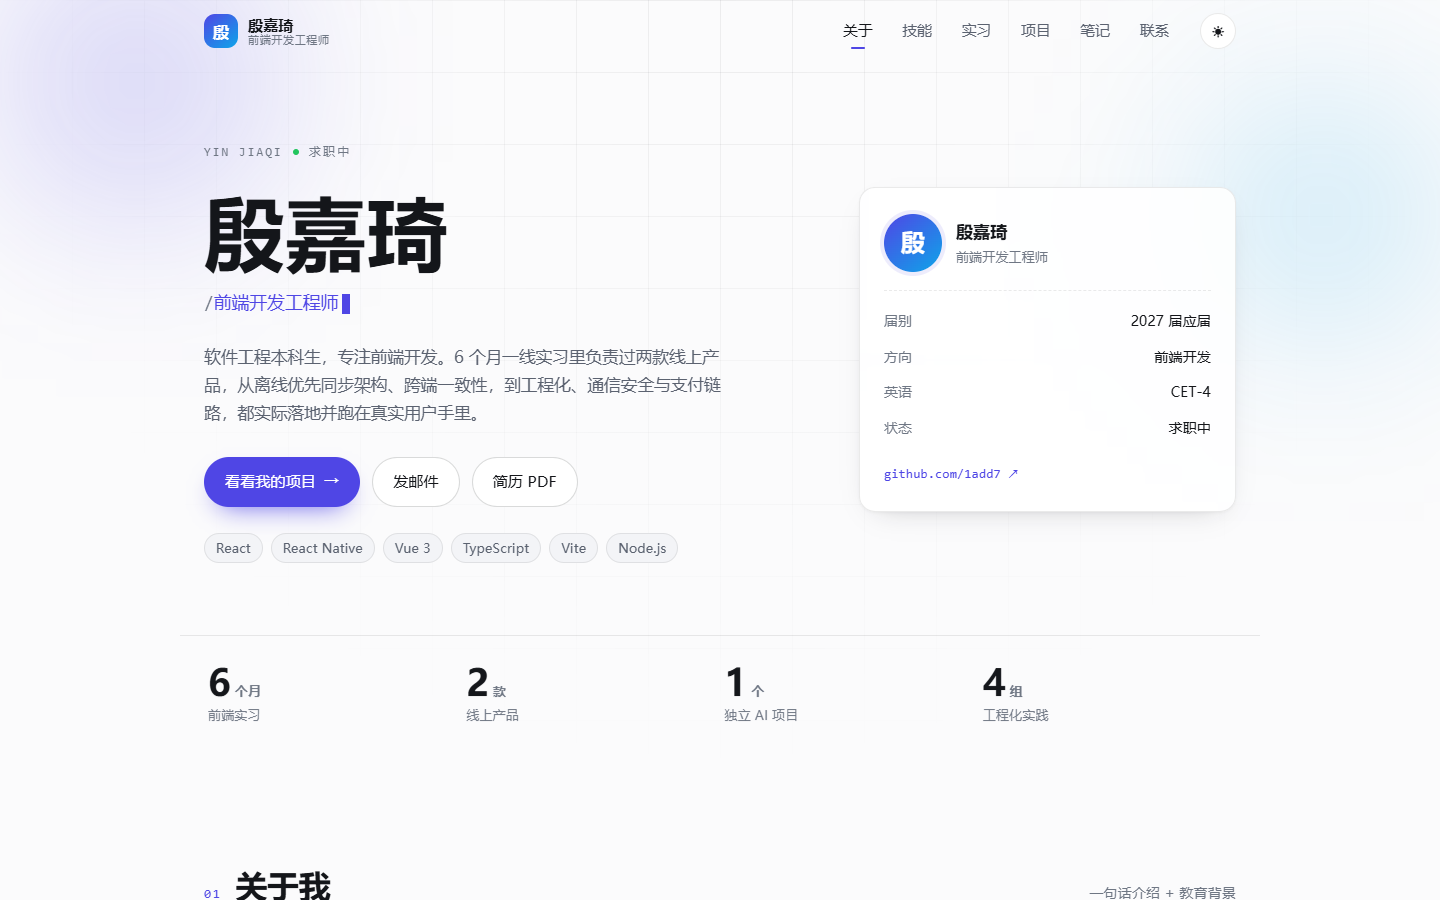
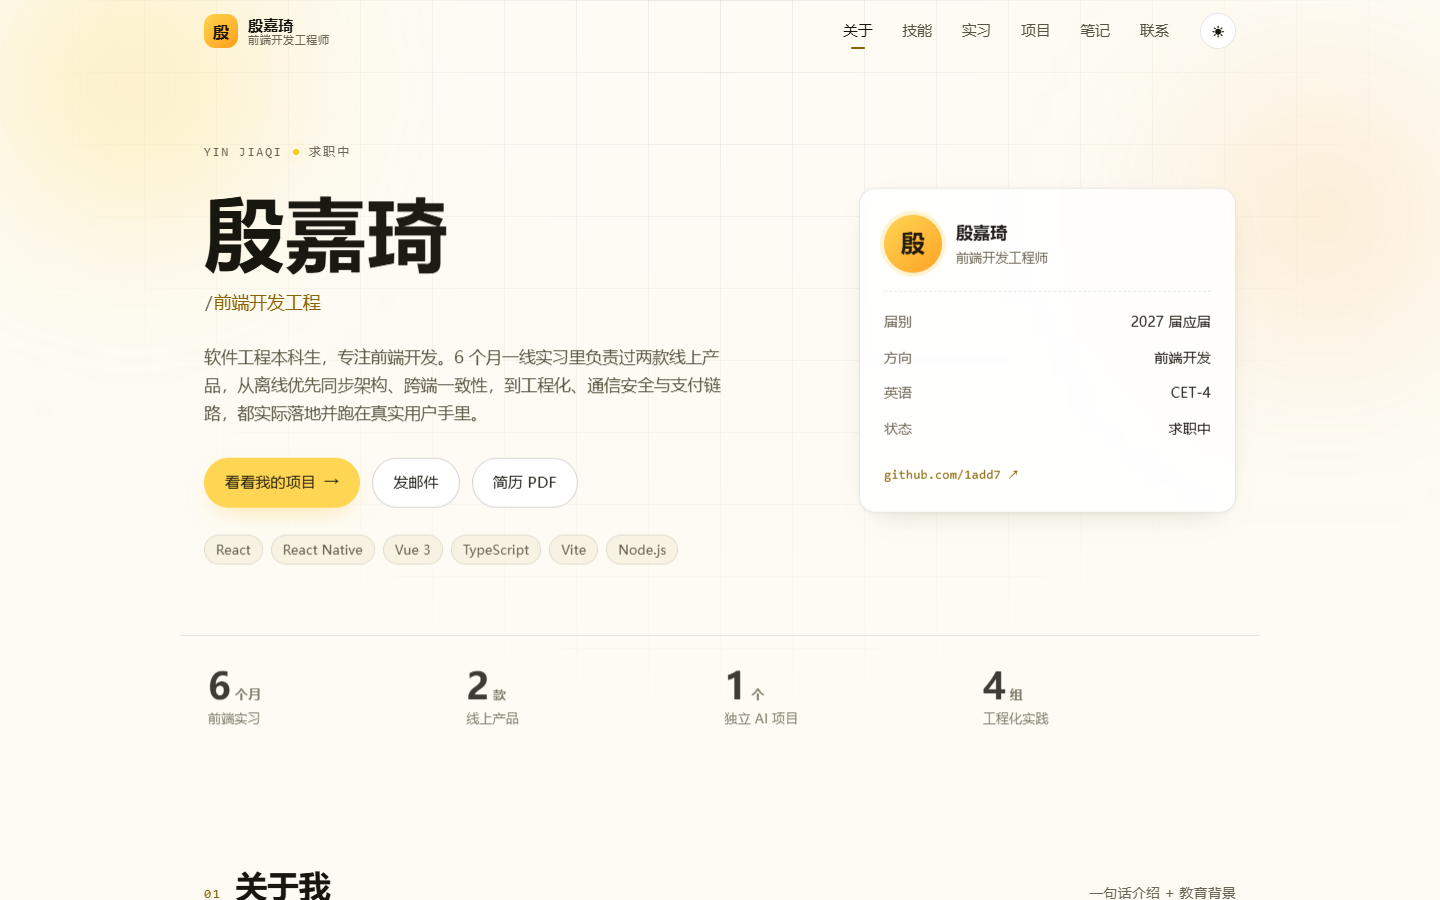
feat: 亮色改黄色主题、暗色改灰阶主题
亮色：暖白背景 + 品牌黄 #ffd44d（参考扣子），按钮黄底深色字；
暗色：灰阶背景 #0f1012 + 浅灰强调色，按钮浅灰底深色字。
两套主题的主要文字组合均通过 WCAG AA 4.5:1。

同时把 gh-pages 发布脚本改成推送到所有 remote，并更新预览图与说明。

diff --git a/src/styles/global.css b/src/styles/global.css
@@ -1,20 +1,30 @@
-/* ---------- 设计令牌 ---------- */
+/* ---------- 设计令牌 ----------
+   亮色：黄色主调（参考扣子的黄）
+   暗色：灰阶主调
+   变量分工：
+     --accent       贴在背景上的“品牌色文字/描边”（要保证对比度）
+     --accent-fill  实心填充（按钮、徽标、头像），配 --on-accent 文字
+*/
 :root {
-  --bg: #fbfbfc;
-  --bg-soft: #f3f4f7;
+  --bg: #fdfbf4;
+  --bg-soft: #f7f1e1;
   --surface: #ffffff;
   --surface-strong: #ffffff;
-  --text: #14161a;
-  --text-muted: #5b6270;
-  --text-dim: #6f7784;
-  --border: rgba(20, 22, 26, 0.09);
-  --border-strong: rgba(20, 22, 26, 0.16);
-  --accent: #4f46e5;
-  --accent-2: #0ea5e9;
-  --accent-soft: rgba(79, 70, 229, 0.1);
-  --accent-line: rgba(79, 70, 229, 0.35);
-  --shadow-sm: 0 1px 2px rgba(16, 18, 23, 0.04), 0 10px 30px -18px rgba(16, 18, 23, 0.3);
-  --shadow-md: 0 2px 4px rgba(16, 18, 23, 0.04), 0 24px 48px -28px rgba(16, 18, 23, 0.35);
+  --text: #17160f;
+  --text-muted: #57513f;
+  --text-dim: #6b6553;
+  --border: rgba(23, 22, 15, 0.1);
+  --border-strong: rgba(23, 22, 15, 0.18);
+  --accent: #8a6400;
+  --accent-2: #ff9f1c;
+  --accent-fill: #ffd44d;
+  --accent-fill-strong: #ffc61a;
+  --on-accent: #1c1604;
+  --accent-soft: rgba(255, 205, 50, 0.22);
+  --accent-line: rgba(170, 126, 0, 0.42);
+  --accent-glow: rgba(255, 190, 20, 0.55);
+  --shadow-sm: 0 1px 2px rgba(74, 60, 12, 0.05), 0 10px 30px -18px rgba(74, 60, 12, 0.32);
+  --shadow-md: 0 2px 4px rgba(74, 60, 12, 0.05), 0 24px 48px -28px rgba(74, 60, 12, 0.38);
   --radius-sm: 10px;
   --radius: 16px;
   --radius-lg: 22px;
@@ -28,21 +38,25 @@
 }
 
 :root[data-theme='dark'] {
-  --bg: #0c0d11;
-  --bg-soft: #12141a;
-  --surface: #14161d;
-  --surface-strong: #171a22;
-  --text: #f2f4f8;
-  --text-muted: #a2aab8;
-  --text-dim: #767f8f;
+  --bg: #0f1012;
+  --bg-soft: #17191c;
+  --surface: #15171a;
+  --surface-strong: #1a1d20;
+  --text: #f2f4f7;
+  --text-muted: #a9afb8;
+  --text-dim: #838992;
   --border: rgba(255, 255, 255, 0.09);
   --border-strong: rgba(255, 255, 255, 0.18);
-  --accent: #8b8bff;
-  --accent-2: #38bdf8;
-  --accent-soft: rgba(139, 139, 255, 0.14);
-  --accent-line: rgba(139, 139, 255, 0.4);
-  --shadow-sm: 0 1px 2px rgba(0, 0, 0, 0.4), 0 10px 30px -18px rgba(0, 0, 0, 0.8);
-  --shadow-md: 0 2px 6px rgba(0, 0, 0, 0.45), 0 30px 60px -30px rgba(0, 0, 0, 0.9);
+  --accent: #dfe3e8;
+  --accent-2: #9aa2ad;
+  --accent-fill: #e9ecef;
+  --accent-fill-strong: #ffffff;
+  --on-accent: #131417;
+  --accent-soft: rgba(255, 255, 255, 0.08);
+  --accent-line: rgba(255, 255, 255, 0.28);
+  --accent-glow: rgba(255, 255, 255, 0.22);
+  --shadow-sm: 0 1px 2px rgba(0, 0, 0, 0.45), 0 10px 30px -18px rgba(0, 0, 0, 0.85);
+  --shadow-md: 0 2px 6px rgba(0, 0, 0, 0.5), 0 30px 60px -30px rgba(0, 0, 0, 0.9);
   color-scheme: dark;
 }
 
@@ -121,8 +135,8 @@ code {
 }
 
 ::selection {
-  background: var(--accent);
-  color: #fff;
+  background: var(--accent-fill);
+  color: var(--on-accent);
 }
 
 :focus-visible {
@@ -264,13 +278,14 @@ code {
 }
 
 .btn-primary {
-  background: var(--accent);
-  color: #fff;
-  box-shadow: 0 12px 26px -14px var(--accent);
+  background: var(--accent-fill);
+  color: var(--on-accent);
+  box-shadow: 0 12px 26px -14px var(--accent-glow);
 }
 
 .btn-primary:hover {
-  box-shadow: 0 18px 34px -14px var(--accent);
+  background: var(--accent-fill-strong);
+  box-shadow: 0 18px 34px -14px var(--accent-glow);
 }
 
 .btn-ghost {

diff --git a/src/components/Hero.css b/src/components/Hero.css
@@ -15,7 +15,7 @@
   position: absolute;
   border-radius: 50%;
   filter: blur(70px);
-  opacity: 0.5;
+  opacity: 0.55;
   animation: float-slow 18s var(--ease-out) infinite;
 }
 
@@ -24,7 +24,7 @@
   height: 420px;
   top: -120px;
   left: -80px;
-  background: radial-gradient(circle, color-mix(in srgb, var(--accent) 55%, transparent), transparent 70%);
+  background: radial-gradient(circle, color-mix(in srgb, var(--accent-fill) 75%, transparent), transparent 70%);
 }
 
 .hero-blob-b {
@@ -32,7 +32,7 @@
   height: 380px;
   top: 40px;
   right: -60px;
-  background: radial-gradient(circle, color-mix(in srgb, var(--accent-2) 45%, transparent), transparent 70%);
+  background: radial-gradient(circle, color-mix(in srgb, var(--accent-2) 40%, transparent), transparent 70%);
   animation-delay: -6s;
 }
 
@@ -72,7 +72,7 @@
   width: 6px;
   height: 6px;
   border-radius: 50%;
-  background: #22c55e;
+  background: var(--accent-fill-strong);
   animation: pulse-ring 2.4s infinite;
 }
 
@@ -164,8 +164,8 @@
   flex: none;
   border-radius: 50%;
   overflow: hidden;
-  background: linear-gradient(140deg, var(--accent), var(--accent-2));
-  color: #fff;
+  background: linear-gradient(140deg, var(--accent-fill), var(--accent-2));
+  color: var(--on-accent);
   box-shadow: 0 0 0 4px var(--accent-soft);
 }
 

diff --git a/index.html b/index.html
@@ -8,8 +8,8 @@
       name="description"
       content="殷嘉琦的个人主页，前端开发工程师。重庆邮电大学软件工程 2027 届，React / Vue 双栈，关注跨端一致性、前端工程化与 AI 应用。"
     />
-    <meta name="theme-color" content="#fbfbfc" media="(prefers-color-scheme: light)" />
-    <meta name="theme-color" content="#0c0d11" media="(prefers-color-scheme: dark)" />
+    <meta name="theme-color" content="#fdfbf4" media="(prefers-color-scheme: light)" />
+    <meta name="theme-color" content="#0f1012" media="(prefers-color-scheme: dark)" />
     <title>殷嘉琦 · 前端开发 | 个人主页</title>
   </head>
   <body>

diff --git a/src/components/Nav.css b/src/components/Nav.css
@@ -38,8 +38,8 @@
   width: 34px;
   height: 34px;
   border-radius: 11px;
-  background: linear-gradient(140deg, var(--accent), var(--accent-2));
-  color: #fff;
+  background: linear-gradient(140deg, var(--accent-fill), var(--accent-2));
+  color: var(--on-accent);
   font-size: 16px;
   font-weight: 600;
   transition: transform 0.5s var(--ease-out);

diff --git a/README.md b/README.md
@@ -1,6 +1,8 @@
 # 殷嘉琦 · 个人主页 / 网站简历
 
-> 在线预览：<https://1add7.github.io/portfolio/>
+> 在线预览：<https://1add7.github.io/resume/>
+>
+> 备用地址：<https://1add7.github.io/portfolio/>
 
 ![首页预览](docs/preview.png)
 
@@ -74,7 +76,16 @@ docs/
 npm run deploy
 ```
 
-它会先构建，再把 `dist/` 的内容推送到 `gh-pages` 分支，约半分钟后线上生效。
+它会先构建，再把 `dist/` 的内容推送到 `gh-pages` 分支，**并同步到本仓库配置的所有 remote**
+（目前是 `resume` 和 `portfolio` 两个仓库），约半分钟后两个地址都会生效。
+
+## 配色
+
+- **亮色主题**：黄色主调（参考扣子），暖白背景 `#fdfbf4` + 品牌黄 `#ffd44d`，按钮为黄底深色字
+- **暗色主题**：灰阶主调，背景 `#0f1012`，强调色为浅灰 `#dfe3e8`，按钮为浅灰底深色字
+
+两套主题下所有正文/次要文字/链接文字的对比度都通过了 WCAG AA 4.5:1。切换逻辑在
+`src/hooks/useTheme.ts`，颜色令牌集中在 `src/styles/global.css` 顶部。
 
 > **为什么不用 GitHub Actions**：该账号的 Actions 目前被 billing 限制锁定，运行记录里提示
 > *"The job was not started because your account is locked due to a billing issue."*
